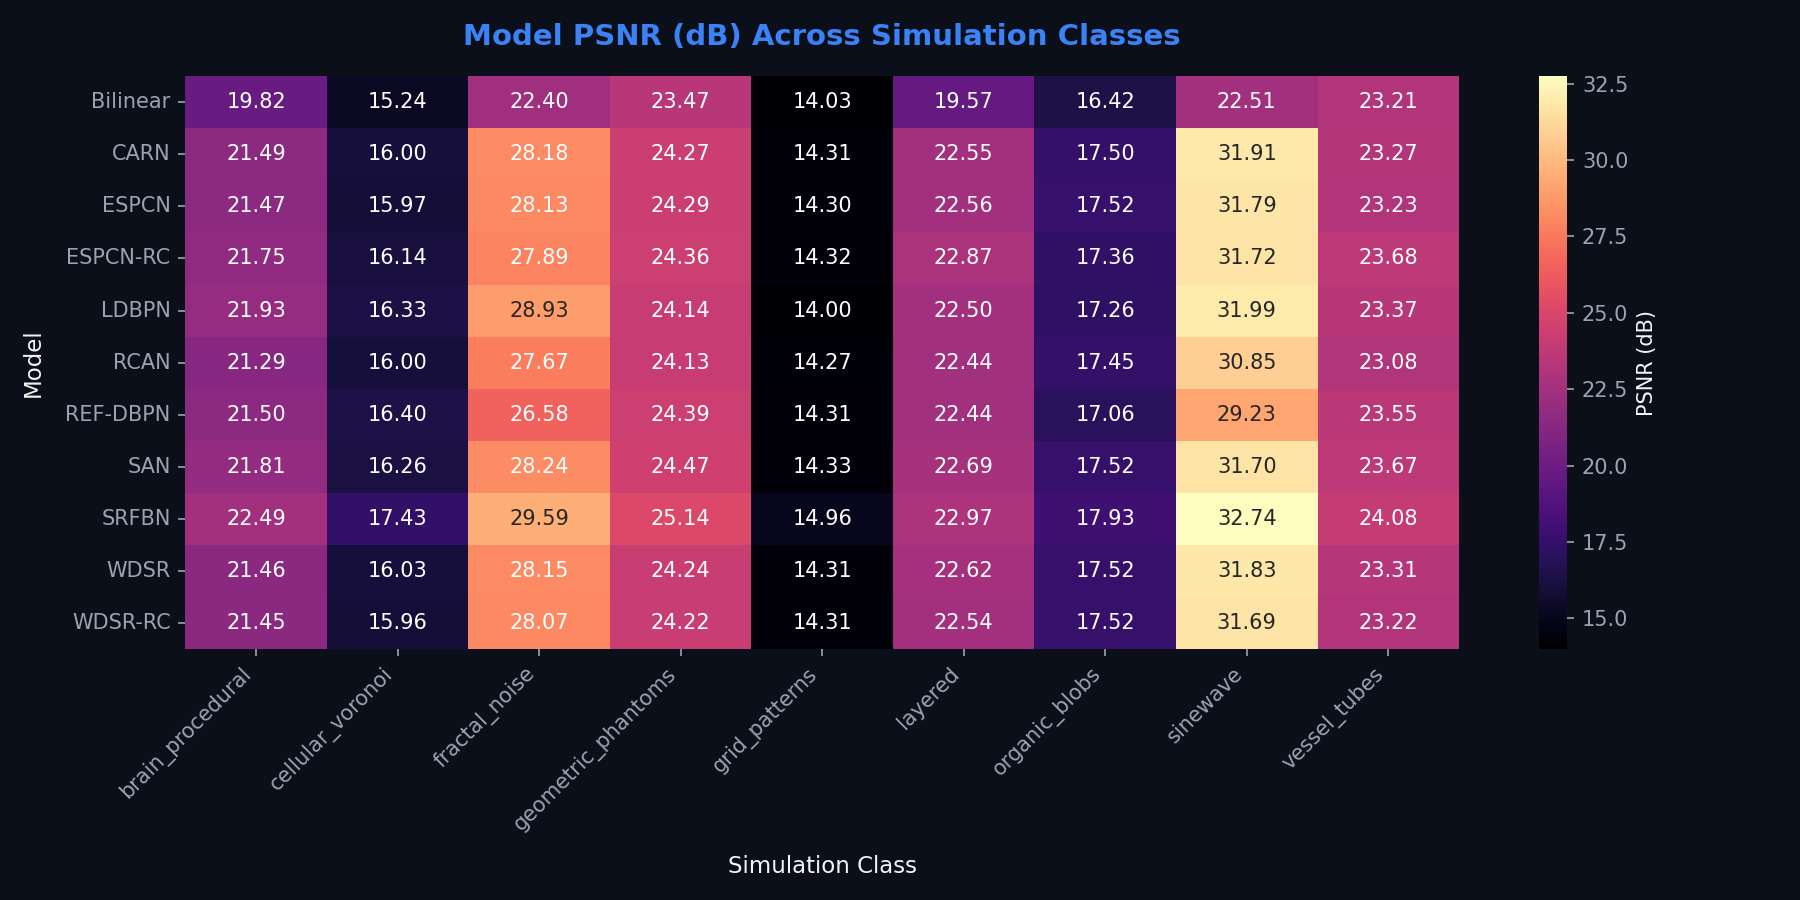
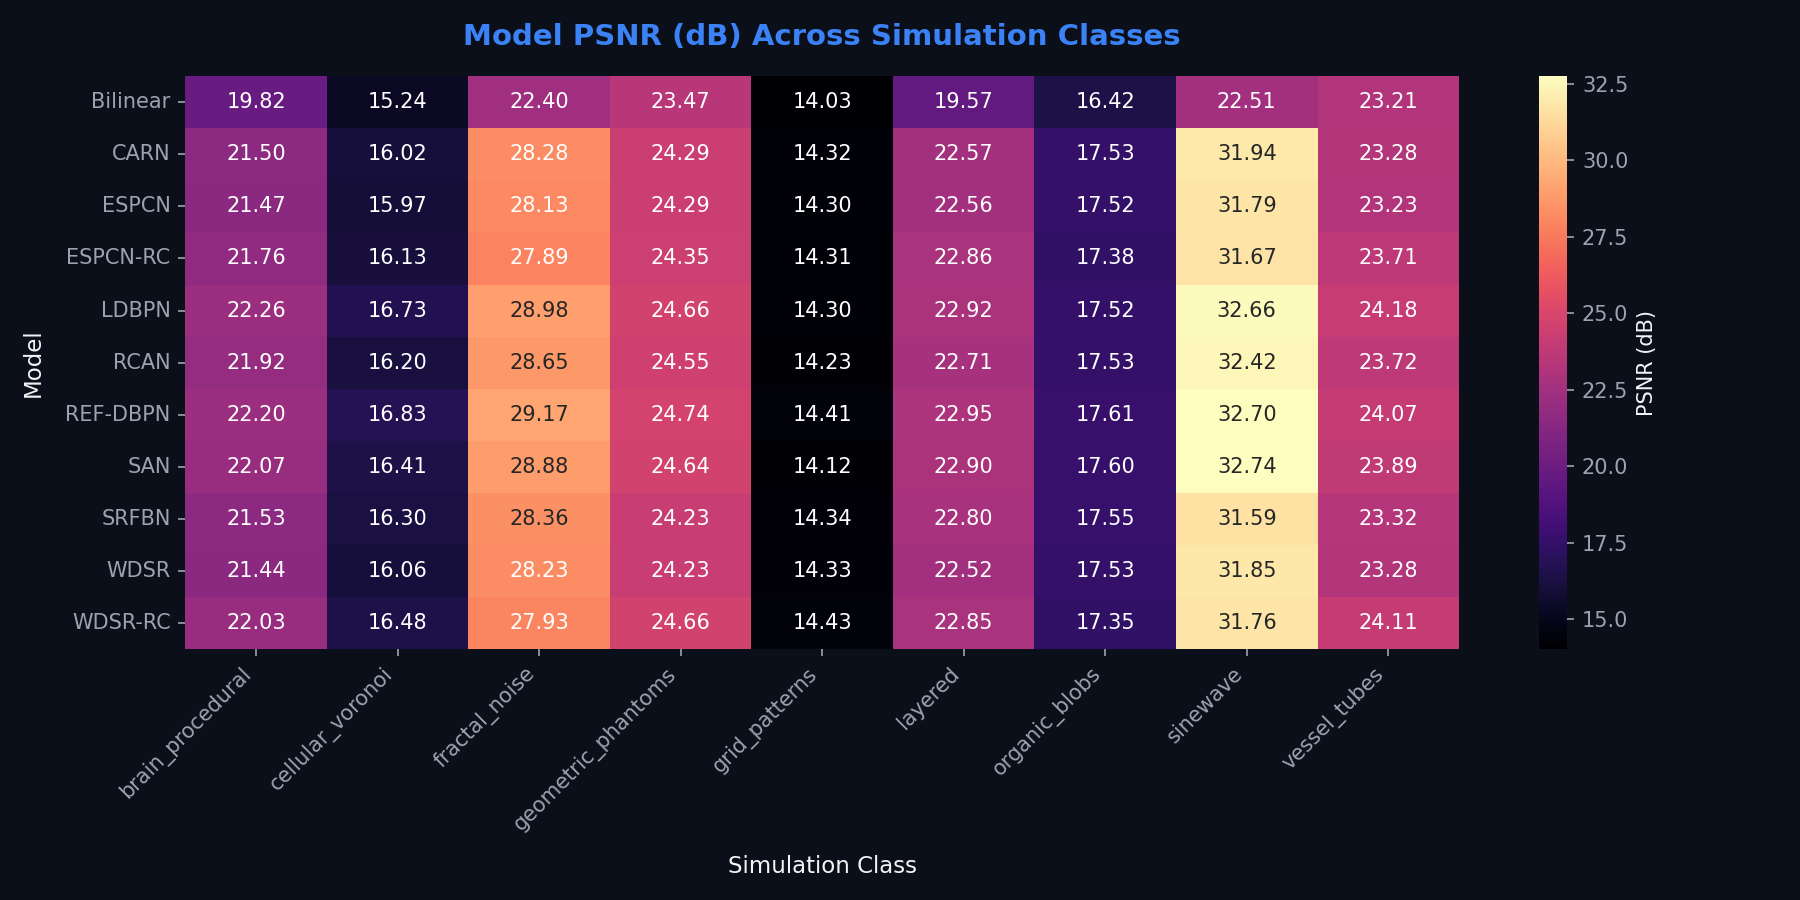
Finalize summary dashboard and markdown with completed complexity parameters and latency benchmarks

diff --git a/summary_results.html b/summary_results.html
@@ -581,6 +581,8 @@
         <th></th>
         <th>Model</th>
         <th>Rank Score (Avg Rank)</th>
+        <th>Parameters</th>
+        <th>Latency (MPS)</th>
       </tr>
     </thead>
     <tbody>
@@ -588,56 +590,78 @@
         <td><strong>1</strong></td>
         <td>REF-DBPN</td>
         <td>2.97778</td>
+        <td>4,356,993</td>
+        <td>648.40 ms</td>
       </tr>
       <tr>
         <td><strong>2</strong></td>
         <td>SAN</td>
         <td>3.66667</td>
+        <td>1,189,874</td>
+        <td>22.30 ms</td>
       </tr>
       <tr>
         <td><strong>3</strong></td>
         <td>LDBPN</td>
         <td>4.22222</td>
+        <td>1,580,929</td>
+        <td>20.27 ms</td>
       </tr>
       <tr>
         <td><strong>4</strong></td>
         <td>WDSR-RC</td>
         <td>4.86667</td>
+        <td>2,404,226</td>
+        <td>18.63 ms</td>
       </tr>
       <tr>
         <td><strong>5</strong></td>
         <td>RCAN</td>
         <td>5.22222</td>
+        <td>1,074,130</td>
+        <td>23.30 ms</td>
       </tr>
       <tr>
         <td><strong>6</strong></td>
         <td>SRFBN</td>
         <td>6.13333</td>
+        <td>60,556</td>
+        <td>14.45 ms</td>
       </tr>
       <tr>
         <td><strong>7</strong></td>
         <td>ESPCN-RC</td>
         <td>6.55556</td>
+        <td>637,858</td>
+        <td>17.39 ms</td>
       </tr>
       <tr>
         <td><strong>8</strong></td>
         <td>CARN</td>
         <td>6.91111</td>
+        <td>328,802</td>
+        <td>10.37 ms</td>
       </tr>
       <tr>
         <td><strong>9</strong></td>
         <td>WDSR</td>
         <td>7.13333</td>
+        <td>2,431,970</td>
+        <td>17.89 ms</td>
       </tr>
       <tr>
         <td><strong>10</strong></td>
         <td>ESPCN</td>
         <td>7.73333</td>
+        <td>2,541,762</td>
+        <td>20.88 ms</td>
       </tr>
       <tr>
         <td><strong>11</strong></td>
         <td>Bilinear</td>
         <td>10.5778</td>
+        <td>-</td>
+        <td>-</td>
       </tr>
     </tbody>
   </table>

diff --git a/class_performance_summary.md b/class_performance_summary.md
@@ -6,19 +6,19 @@ This report evaluates the performance of the trained 2D super-resolution models 
 
 The **Rank of Ranks** is a robust metric that aggregates performance across all 9 simulation classes and all 5 evaluation metrics (PSNR, SSIM, GMSD, HFEN, Correlation). For each class and each metric, models are ranked 1 to 11 (lower is better). The final score is the average rank across all classes and metrics.
 
-|    | Model    |   Rank Score (Avg Rank) |
-|---:|:---------|------------------------:|
-|  1 | REF-DBPN |                 2.97778 |
-|  2 | SAN      |                 3.66667 |
-|  3 | LDBPN    |                 4.22222 |
-|  4 | WDSR-RC  |                 4.86667 |
-|  5 | RCAN     |                 5.22222 |
-|  6 | SRFBN    |                 6.13333 |
-|  7 | ESPCN-RC |                 6.55556 |
-|  8 | CARN     |                 6.91111 |
-|  9 | WDSR     |                 7.13333 |
-| 10 | ESPCN    |                 7.73333 |
-| 11 | Bilinear |                10.5778  |
+|    | Model    |   Rank Score (Avg Rank) | Parameters   | Latency (MPS)   |
+|---:|:---------|------------------------:|:-------------|:----------------|
+|  1 | REF-DBPN |                 2.97778 | 4,356,993    | 648.40 ms       |
+|  2 | SAN      |                 3.66667 | 1,189,874    | 22.30 ms        |
+|  3 | LDBPN    |                 4.22222 | 1,580,929    | 20.27 ms        |
+|  4 | WDSR-RC  |                 4.86667 | 2,404,226    | 18.63 ms        |
+|  5 | RCAN     |                 5.22222 | 1,074,130    | 23.30 ms        |
+|  6 | SRFBN    |                 6.13333 | 60,556       | 14.45 ms        |
+|  7 | ESPCN-RC |                 6.55556 | 637,858      | 17.39 ms        |
+|  8 | CARN     |                 6.91111 | 328,802      | 10.37 ms        |
+|  9 | WDSR     |                 7.13333 | 2,431,970    | 17.89 ms        |
+| 10 | ESPCN    |                 7.73333 | 2,541,762    | 20.88 ms        |
+| 11 | Bilinear |                10.5778  | -            | -               |
 
 ## Average PSNR (dB) per Class
 